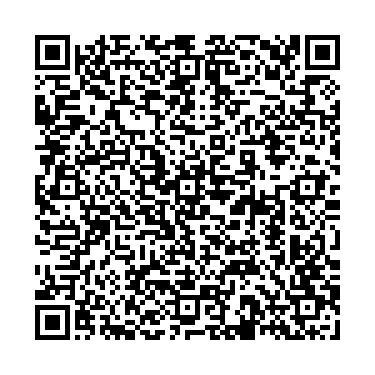
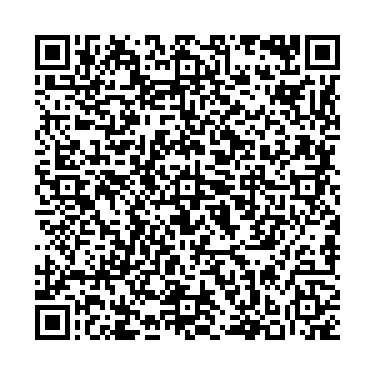
Fix: Configurar QR_SERVER para HTTPS

Changed region(s): [[0.088, 0.088, 0.9093, 0.9093]]

diff --git a/admin.py b/admin.py
@@ -17,6 +17,7 @@ API_KEY = os.getenv('API_KEY_WISPHUB')
 BASE_URL = 'https://api.wisphub.net/api/clientes'
 GENIEACS_API = os.getenv("GENIEACS_API_URL")
 ip_server = os.getenv("IP_SERVER")
+qr_server = os.getenv("QR_SERVER")
 
 # Crear Blueprint
 admin_bp = Blueprint('admin', __name__, url_prefix='/admin')
@@ -683,7 +684,7 @@ def conectar_whatsapp():
     # Si el estado es iniciando o desconocido, tratarlo como desconectado
     if estado not in ['conectado', 'esperando_qr', 'desconectado', 'error']:
         estado = 'desconectado'
-    qr_url = f"http://{ip_server}:3002/qr-image?time={int(time.time())}"
+    qr_url = f"https://{qr_server}/qr-image?time={int(time.time())}"
     return render_template('admin/conectar_whatsapp.html', estado=estado, qr_url=qr_url)
 
 
